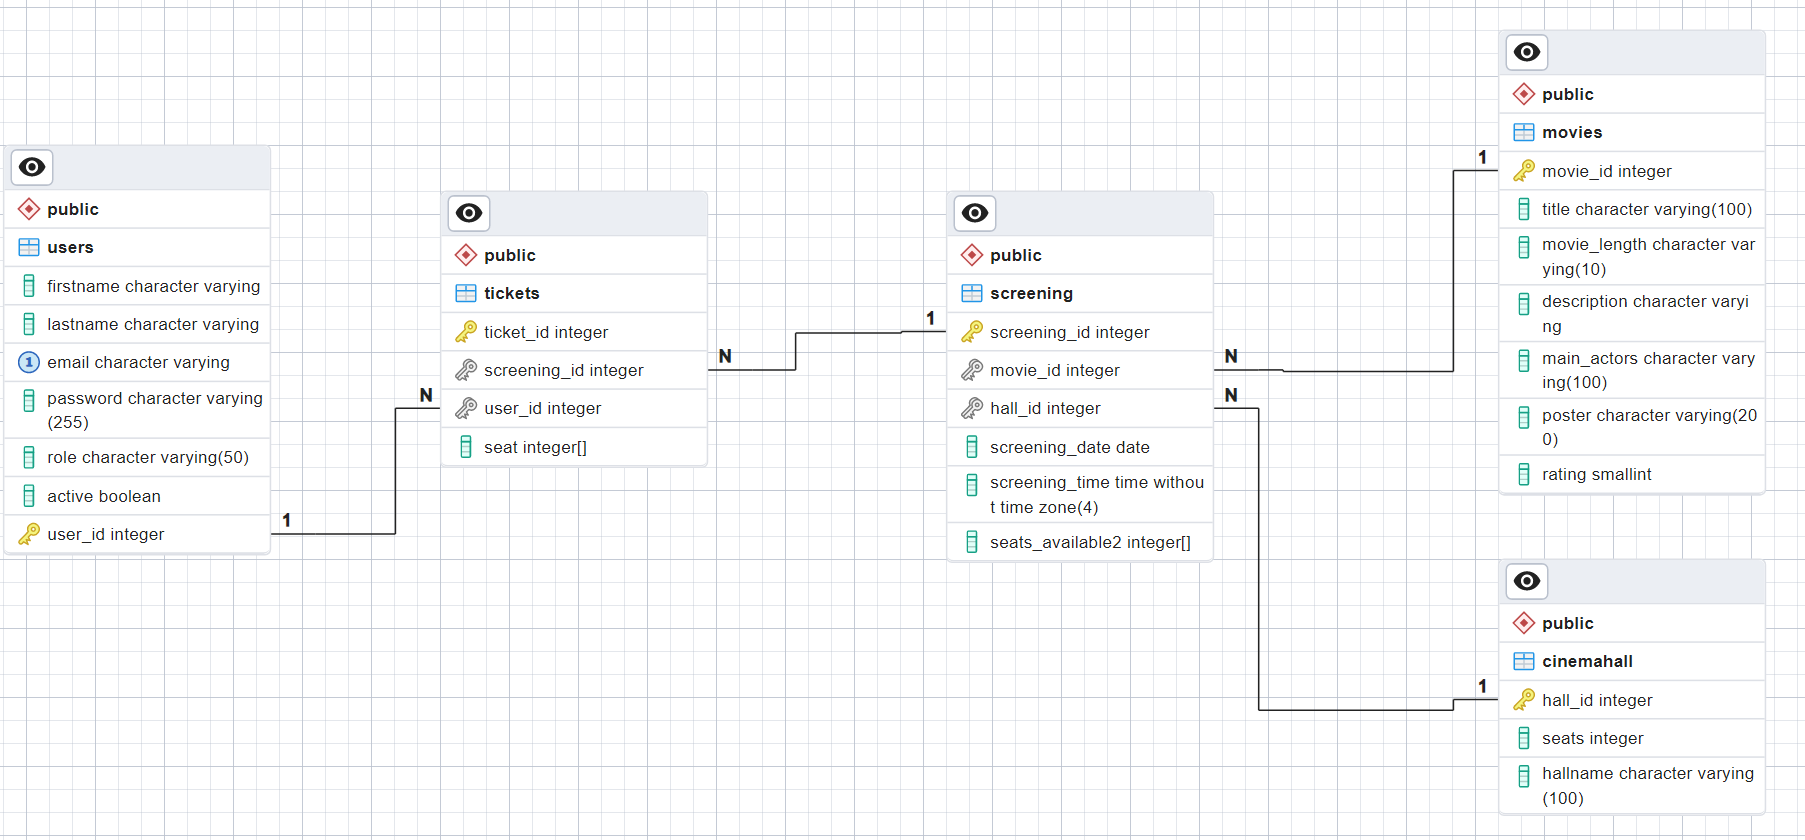
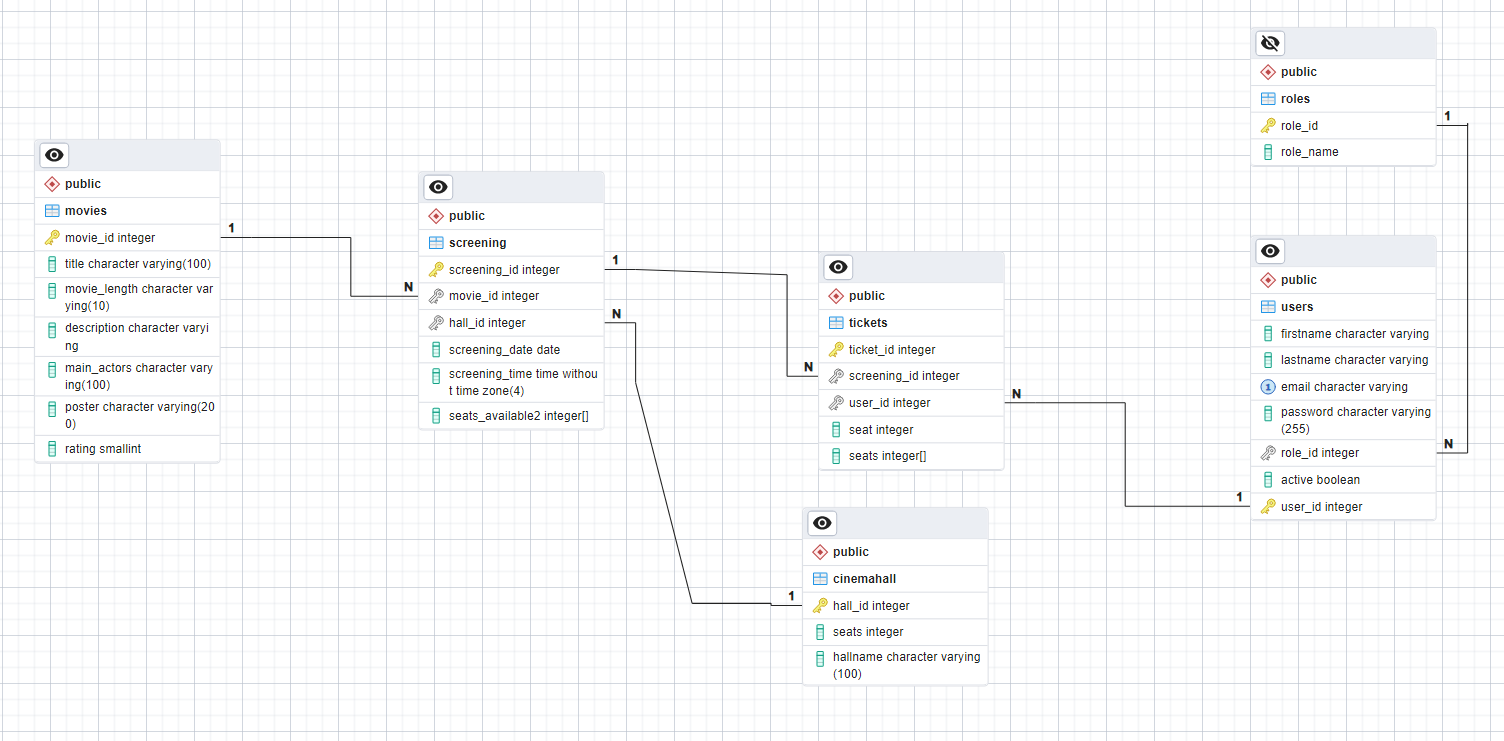
Readme Update

diff --git a/src/main/resources/templates/fragments/adminPanel.html b/src/main/resources/templates/fragments/adminPanel.html
@@ -9,9 +9,9 @@
 <body>
 <nav class="navbar navbar-expand-lg navbar-light" style="background-color: #e3f2fd;" th:fragment="adminPanel">
   <div class="container-fluid col-1">
-    <h3 class="navbar-brand">Control Panel</h3>
+    <h3 class="navbar-brand">Control Panel (admin only)</h3>
   </div>
-  <div class="navbar container-fluid col-10">
+  <div class="navbar container-fluid col-9">
   <ul class="navbar-nav">
     <li class="nav-item">
       <a class="nav-link" th:href="@{/users/manage/info}" sec:authorize="hasAnyRole('ADMIN','MANAGER')"> User Info </a>

diff --git a/src/main/resources/templates/addScreeningForm.html b/src/main/resources/templates/addScreeningForm.html
@@ -9,6 +9,7 @@
 <div th:insert="~{fragments/header}"></div>
 <div th:insert="~{/fragments/adminPanel}" sec:authorize="hasAnyRole('ADMIN','MANAGER')"></div>
 <div class="container">
+    <h2>Plan new screening</h2>
     <form action="#"
           th:action="@{/manage/saveScreening}"
           th:object="${screening}"

diff --git a/README.md b/README.md
@@ -1,15 +1,18 @@
 # Project Cinema
 
-Project cinema is a simple exercise intedened to increase my skills in Java web development. The main idea is to create a functional web application to manage cinema workflow. With support of Spring Boot framework app responsible for makign basic CRUD operations. Project is under active development.
-### The main features to implement:
+Project cinema is a simple exercise intedened to increase my skills in Java web development. The main idea is to create a functional web application to manage cinema workflow. With support of Spring Boot application is responsible for CRUD operations on database. Project is under active development.
+
+### The main features:
+
 * Adding/removing/editing user 
 * Adding/removing/editing cinema repertoire
 * Adding/removing/editing new movies
 * Adding/removing/editing screenings
 * Purchasing tickets for a movie 
-* Cinama Hall seat managament
+* Screening seat management
 * User session
 * Role based access control based on role hierarchy
+* Admin control panel
 
 # Technologies
 
@@ -27,17 +30,25 @@ Project cinema is a simple exercise intedened to increase my skills in Java web 
 
 ![ERD](/src/main/resources/readme/erd2.png)
 
-# Views of some implemented features
+# Some of implemented features
+
  ### List of currenlty registered users
- ![users](/src/main/resources/readme/listOfUsers.png)
+![users](/src/main/resources/readme/listOfUsers.png)
 
+ ### Cinema repertoire for admin
+![repertoire](/src/main/resources/readme/repertoire.png)
 
- ### Cinema repertoire
- ![repertoire](/src/main/resources/readme/repertoire.png)
+  ### Cinema repertoire for guest
+![repertoireA](/src/main/resources/readme/repertoireAnonymous.png)
  
- ### List of users purchased tickets
- ![tickets](/src/main/resources/readme/MyTickets.png)
- 
+ ### List of ticket assigned to logged account
+![tickets](/src/main/resources/readme/MyTickets.png)
+
+### Registering a privileged user (admin or manager role only)
+![regPri](/src/main/resources/readme/registerprivileged.png)
+
+### Planing a new screening 
+![newScreening](/src/main/resources/readme/NewScreening.png)
  
  ### Prerequisites
 
